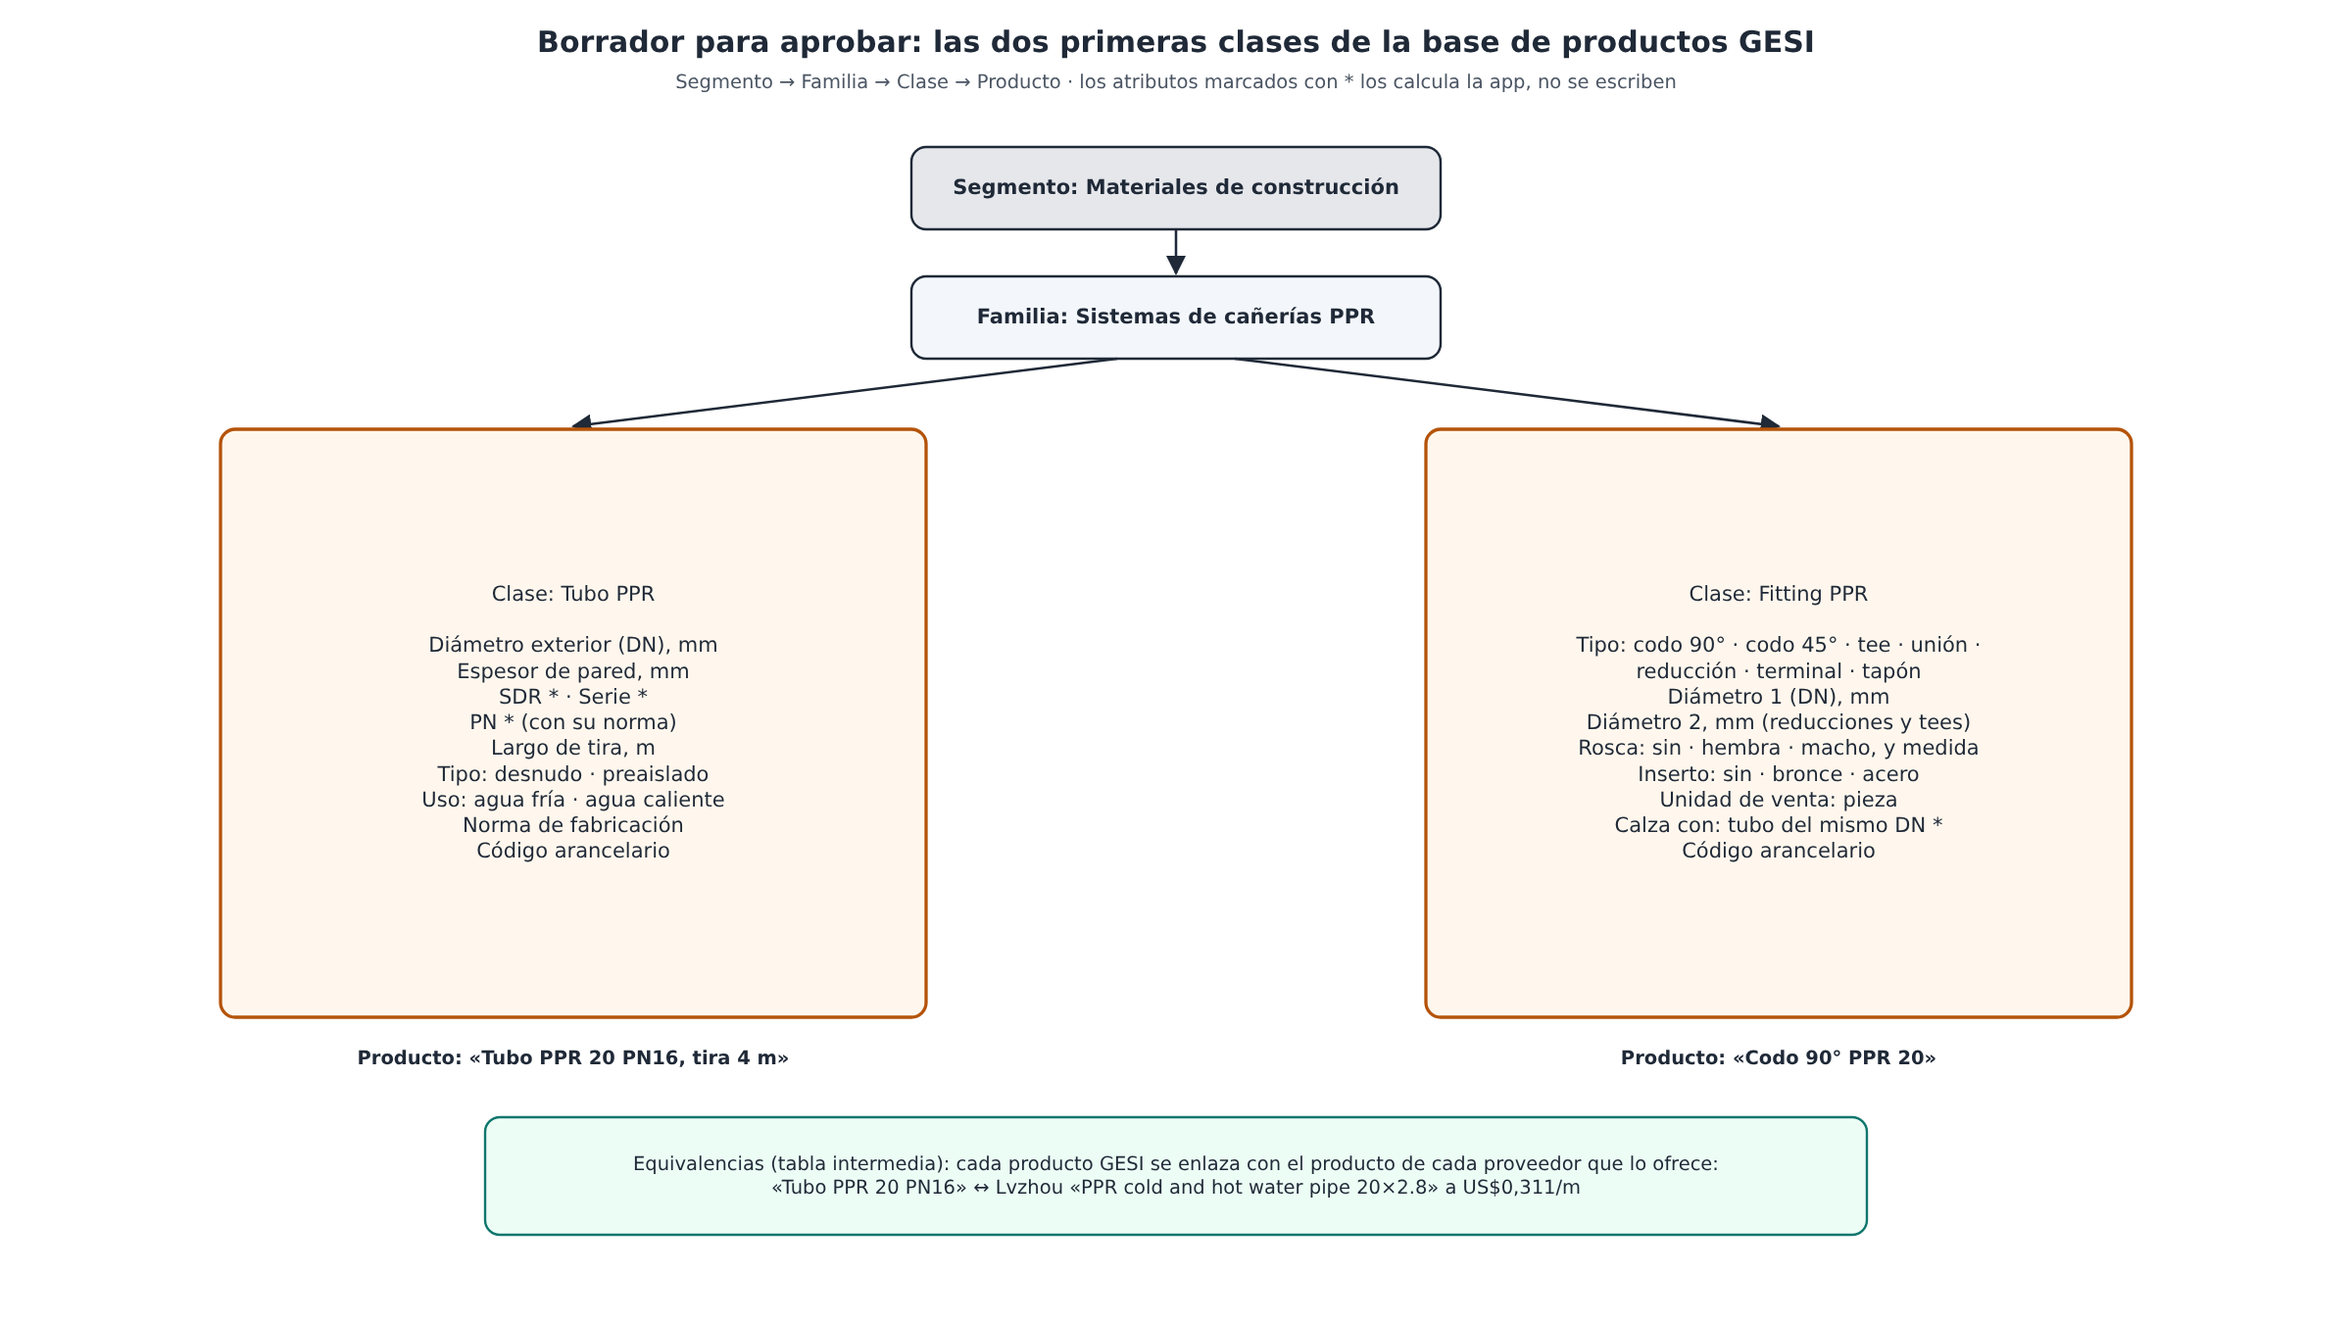
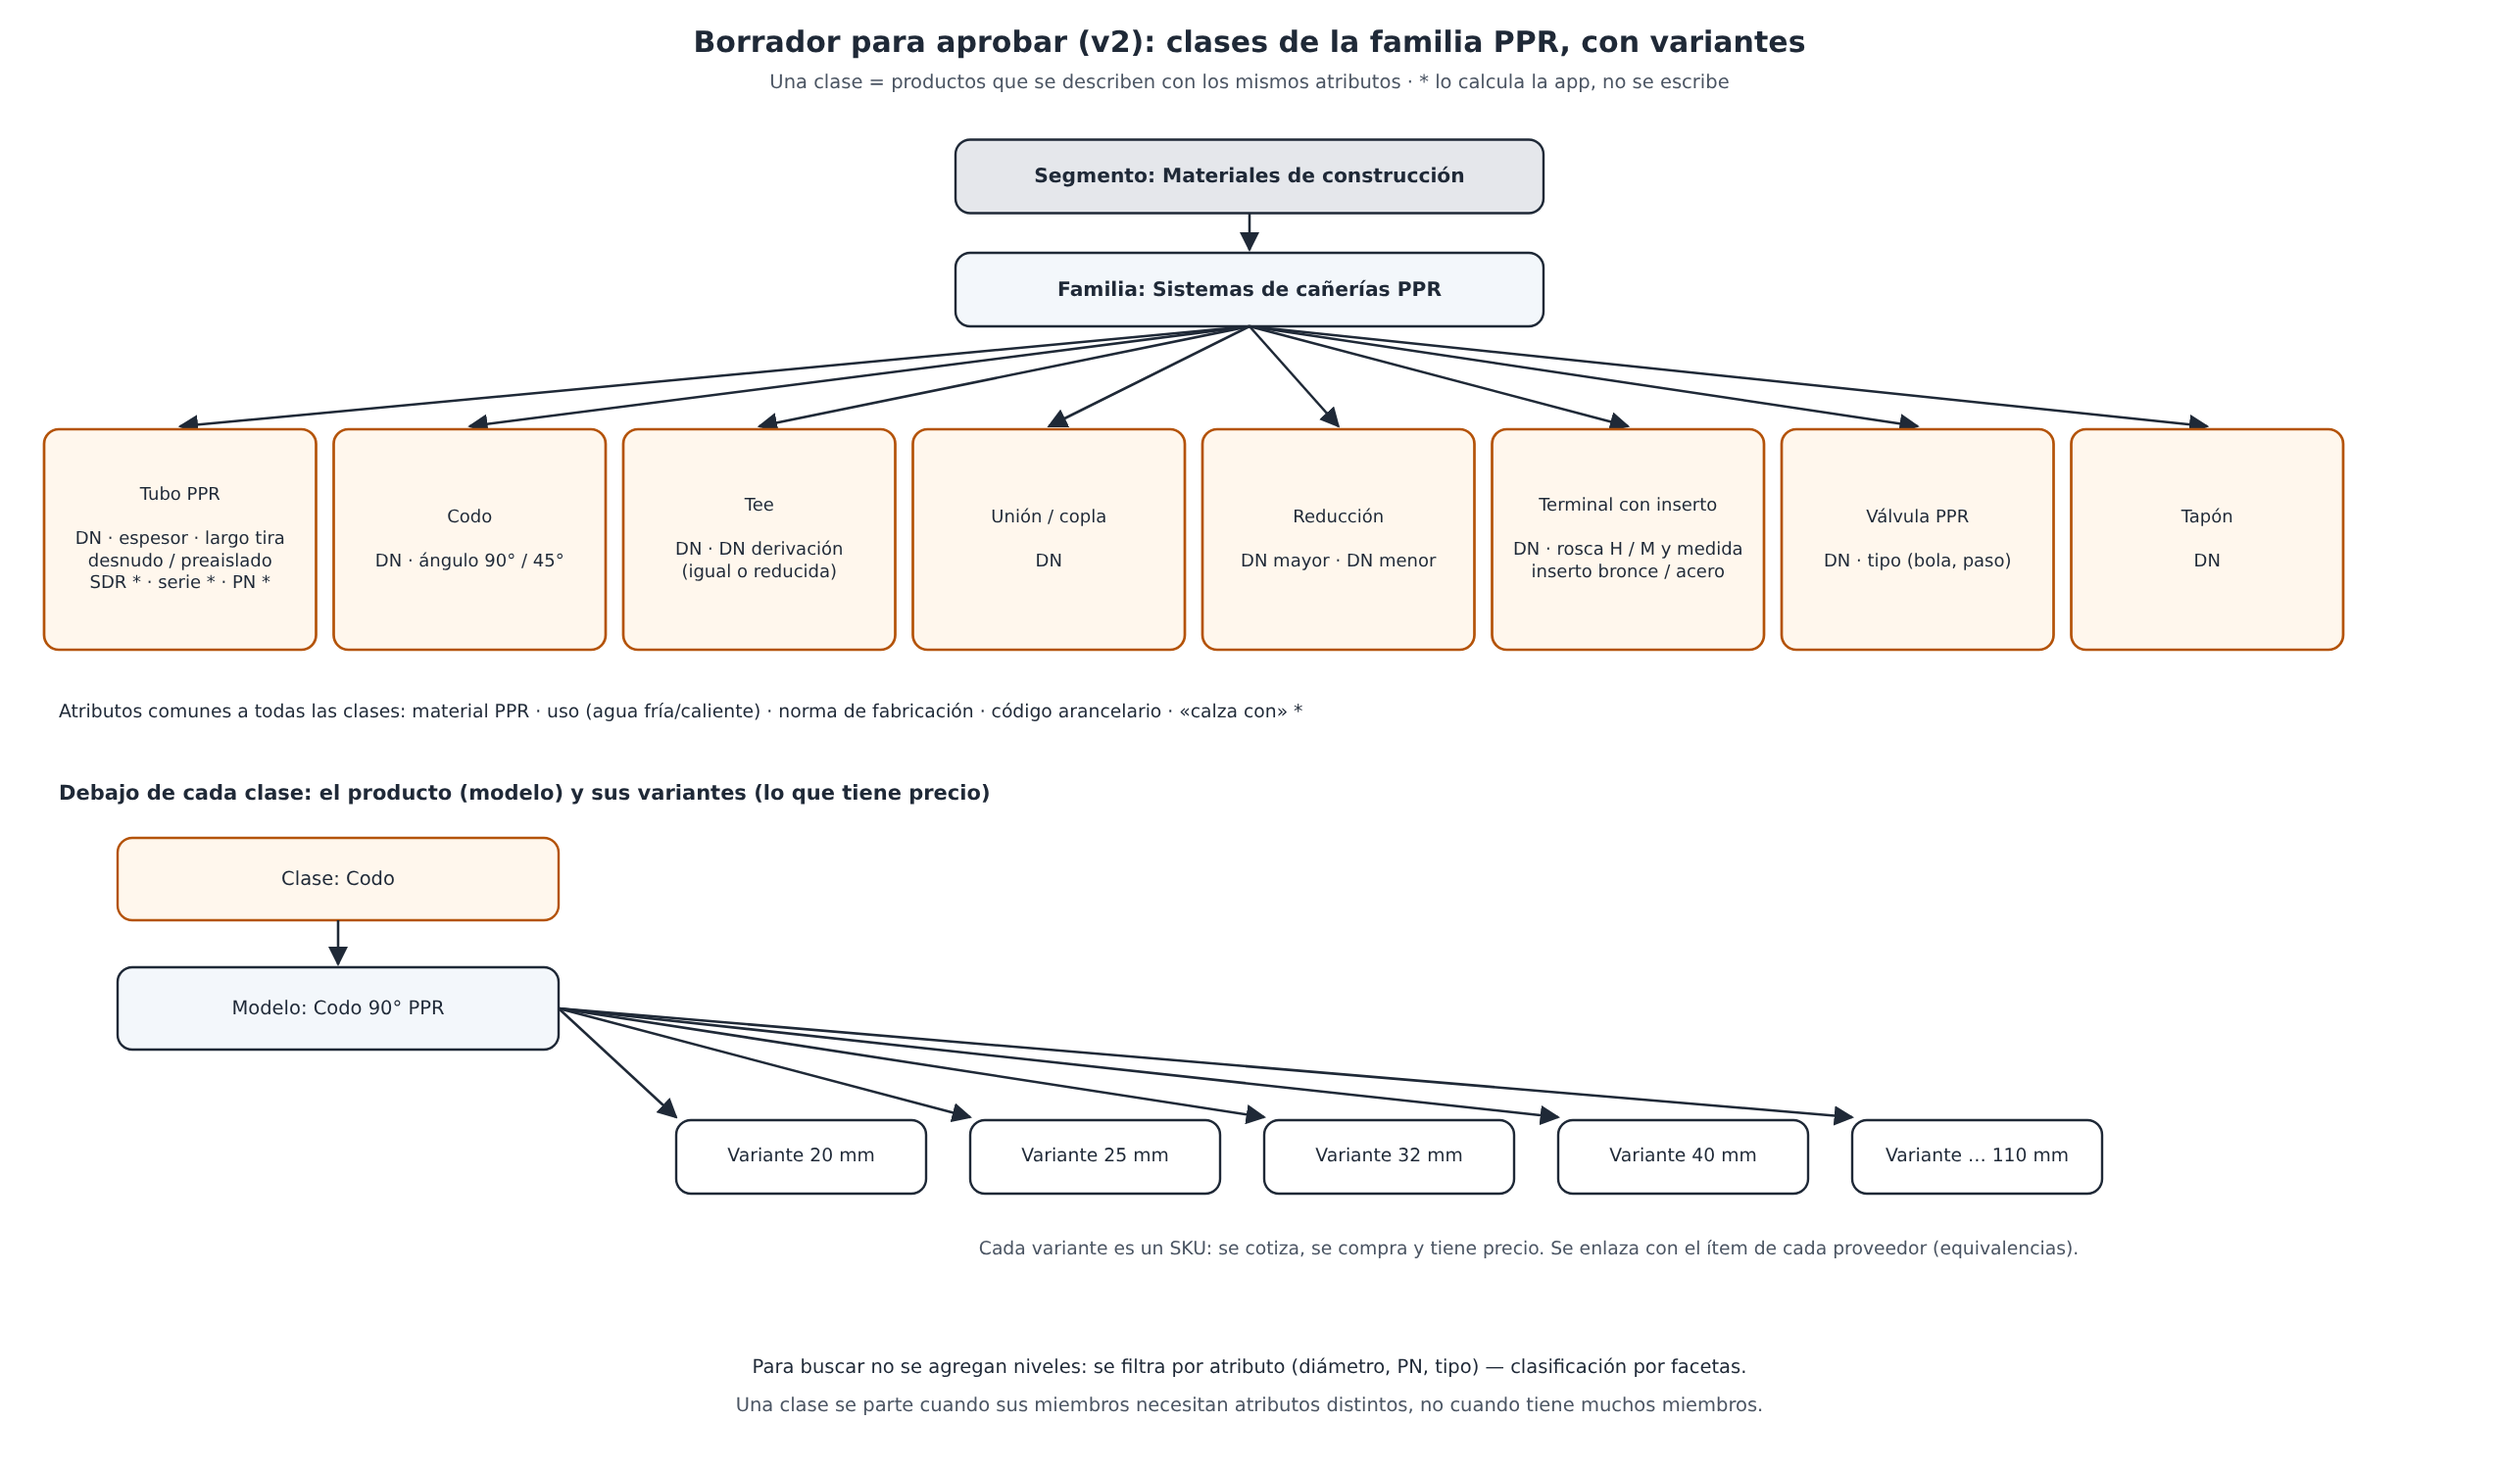
Borrador v2 de la familia PPR: clases por atributos y variantes
Claude-Session: https://claude.ai/code/session_01KNZiTZHKDgTizz8rXV7VZX

diff --git a/herramientas/diagramas.py b/herramientas/diagramas.py
@@ -774,20 +774,39 @@ def base_productos():
     return guardar('base-productos', s, W, H)
 
 def clases_ppr():
-    W, H = 1600, 900
-    s = lienzo(W, H, 'Borrador para aprobar: las dos primeras clases de la base de productos GESI', 'Segmento → Familia → Clase → Producto · los atributos marcados con * los calcula la app, no se escriben')
-    s.append(caja(620, 100, 360, 56, ['Segmento: Materiales de construcción'], fondo='#e5e7eb', tam=14, peso='bold'))
-    s.append(flecha([(800, 156), (800, 186)]))
-    s.append(caja(620, 188, 360, 56, ['Familia: Sistemas de cañerías PPR'], fondo='#f3f7fb', tam=14, peso='bold'))
-    s.append(flecha([(760, 244), (390, 290)]))
-    s.append(flecha([(840, 244), (1210, 290)]))
-    tubo = ['Clase: Tubo PPR', '', 'Diámetro exterior (DN), mm', 'Espesor de pared, mm', 'SDR *  ·  Serie *', 'PN * (con su norma)', 'Largo de tira, m', 'Tipo: desnudo · preaislado', 'Uso: agua fría · agua caliente', 'Norma de fabricación', 'Código arancelario']
-    fit = ['Clase: Fitting PPR', '', 'Tipo: codo 90° · codo 45° · tee · unión ·', 'reducción · terminal · tapón', 'Diámetro 1 (DN), mm', 'Diámetro 2, mm (reducciones y tees)', 'Rosca: sin · hembra · macho, y medida', 'Inserto: sin · bronce · acero', 'Unidad de venta: pieza', 'Calza con: tubo del mismo DN *', 'Código arancelario']
-    s.append(caja(150, 292, 480, 400, tubo, fondo='#fff7ed', borde='#b45309', tam=14, grosor=2.2))
-    s.append(caja(970, 292, 480, 400, fit, fondo='#fff7ed', borde='#b45309', tam=14, grosor=2.2))
-    s.append(texto(390, 720, 'Producto: «Tubo PPR 20 PN16, tira 4 m»', 13, 'bold'))
-    s.append(texto(1210, 720, 'Producto: «Codo 90° PPR 20»', 13, 'bold'))
-    s.append(caja(330, 760, 940, 80, ['Equivalencias (tabla intermedia): cada producto GESI se enlaza con el producto de cada proveedor que lo ofrece:', '«Tubo PPR 20 PN16» ↔ Lvzhou «PPR cold and hot water pipe 20×2.8» a US$0,311/m'], fondo='#ecfdf5', borde='#0f766e', tam=13))
+    W, H = 1700, 1000
+    s = lienzo(W, H, 'Borrador para aprobar (v2): clases de la familia PPR, con variantes', 'Una clase = productos que se describen con los mismos atributos · * lo calcula la app, no se escribe')
+    s.append(caja(650, 95, 400, 50, ['Segmento: Materiales de construcción'], fondo='#e5e7eb', tam=13.5, peso='bold'))
+    s.append(flecha([(850, 145), (850, 170)]))
+    s.append(caja(650, 172, 400, 50, ['Familia: Sistemas de cañerías PPR'], fondo='#f3f7fb', tam=13.5, peso='bold'))
+    clases = [
+        ('Tubo PPR', ['DN · espesor · largo tira', 'desnudo / preaislado', 'SDR * · serie * · PN *']),
+        ('Codo', ['DN · ángulo 90° / 45°']),
+        ('Tee', ['DN · DN derivación', '(igual o reducida)']),
+        ('Unión / copla', ['DN']),
+        ('Reducción', ['DN mayor · DN menor']),
+        ('Terminal con inserto', ['DN · rosca H / M y medida', 'inserto bronce / acero']),
+        ('Válvula PPR', ['DN · tipo (bola, paso)']),
+        ('Tapón', ['DN'])
+    ]
+    ancho, sep, x0 = 185, 12, 30
+    for k, (nombre, attrs) in enumerate(clases):
+        x = x0 + k * (ancho + sep)
+        s.append(flecha([(850, 222), (x + ancho / 2, 290)]))
+        s.append(caja(x, 292, ancho, 150, [nombre, ''] + attrs, fondo='#fff7ed', borde='#b45309', tam=12, grosor=1.8))
+    s.append(texto(40, 485, 'Atributos comunes a todas las clases: material PPR · uso (agua fría/caliente) · norma de fabricación · código arancelario · «calza con» *', 12.5, ancla='start'))
+    # Modelo y variantes
+    s.append(texto(40, 540, 'Debajo de cada clase: el producto (modelo) y sus variantes (lo que tiene precio)', 14, 'bold', ancla='start'))
+    s.append(caja(80, 570, 300, 56, ['Clase: Codo'], fondo='#fff7ed', borde='#b45309', tam=13))
+    s.append(flecha([(230, 626), (230, 656)]))
+    s.append(caja(80, 658, 300, 56, ['Modelo: Codo 90° PPR'], fondo='#f3f7fb', tam=13))
+    for k, v in enumerate(['20 mm', '25 mm', '32 mm', '40 mm', '… 110 mm']):
+        x = 460 + k * 200
+        s.append(flecha([(380, 686), (x, 760)]))
+        s.append(caja(x, 762, 170, 50, [f'Variante {v}'], fondo='#ffffff', tam=12.5))
+    s.append(texto(1040, 850, 'Cada variante es un SKU: se cotiza, se compra y tiene precio. Se enlaza con el ítem de cada proveedor (equivalencias).', 12.5, color=SUAVE))
+    s.append(texto(W / 2, H - 70, 'Para buscar no se agregan niveles: se filtra por atributo (diámetro, PN, tipo) — clasificación por facetas.', 13))
+    s.append(texto(W / 2, H - 44, 'Una clase se parte cuando sus miembros necesitan atributos distintos, no cuando tiene muchos miembros.', 13, color=SUAVE))
     return guardar('clases-ppr', s, W, H)
 
 if __name__ == '__main__':

diff --git a/DECISIONES.md b/DECISIONES.md
@@ -65,4 +65,7 @@ GESI. La revisión guiada del modelo (paso 1 de 5) queda pendiente y se retoma c
   fijos por clase), no su contenido: **Segmento → Familia → Clase → Producto**, cada clase con su lista de atributos.
 - La jerarquía, las clases, los atributos y las equivalencias (producto GESI ↔ producto de cada proveedor) son
   **datos en la base**. Solo las reglas (PN según norma, qué fitting calza con qué tubo) van a código o skills.
-- Se parte solo con **Tubo PPR** y **Fitting PPR**. Borrador en `lecciones/img/clases-ppr.png`, pendiente de aprobación.
+- Se parte solo con la familia **Sistemas de cañerías PPR**. Una clase agrupa productos con los mismos atributos
+  (se parte por atributos distintos, no por cantidad): Tubo, Codo, Tee, Unión, Reducción, Terminal con inserto,
+  Válvula, Tapón. Debajo de cada clase, modelo y **variantes** (SKU con precio). Para buscar, filtros por atributo.
+  Borrador v2 en `lecciones/img/clases-ppr.png`, pendiente de aprobación.
